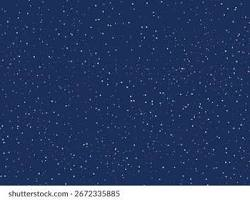
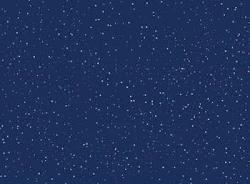
feat: level 2 için gece arka plan görseli eklendi

diff --git a/src/main.cpp b/src/main.cpp
@@ -38,6 +38,13 @@ int main() {
         cout << "Gorseller yuklenemedi!" << endl;
     }
 
+    // ---- LEVEL 2 GECE ARKA PLANI YÜKLEME ----
+    sf::Texture backgroundNightTexture;
+    if(!backgroundNightTexture.loadFromFile("assets/level2/background_night.png")){
+        std::cout << "Gorsel yuklenemedi!" << std::endl;
+    }
+    backgroundNightTexture.setRepeated(true);
+
     // ---- LEVEL 2 FLYINGENEMY GÖRSELLERİ ---- 
     sf::Texture flyingEnemyOpenTexture;
     sf::Texture flyingEnemyClosedTexture;
@@ -475,8 +482,18 @@ int main() {
 
         // ---- ÇİZİM ----
         window.clear();     
-        
-        window.draw(backgroundSprite); // gökyüzünü çizdirdik
+
+        // ---- GÖKYÜZÜ GÖRSEL YÖNETİMİ ----
+        if(currentLevel >= 2){
+            backgroundSprite.setTexture(backgroundNightTexture);
+            backgroundSprite.setColor(sf::Color::White);
+        }
+        else{
+            backgroundSprite.setTexture(backgroundTexture);
+            backgroundSprite.setColor(sf::Color::White);
+        }
+        window.draw(backgroundSprite); // gökyüzünü çizdirdim
+
         // platformları çizdiriyorum (Döngü ile listedeki her şeyi ekrana basacak)
         for (auto& platform : platforms) {
             platform.draw(window);